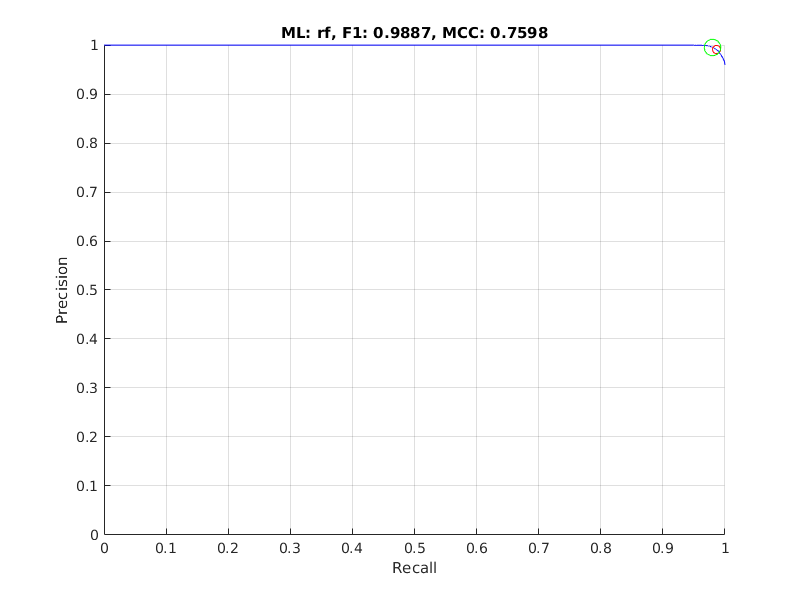
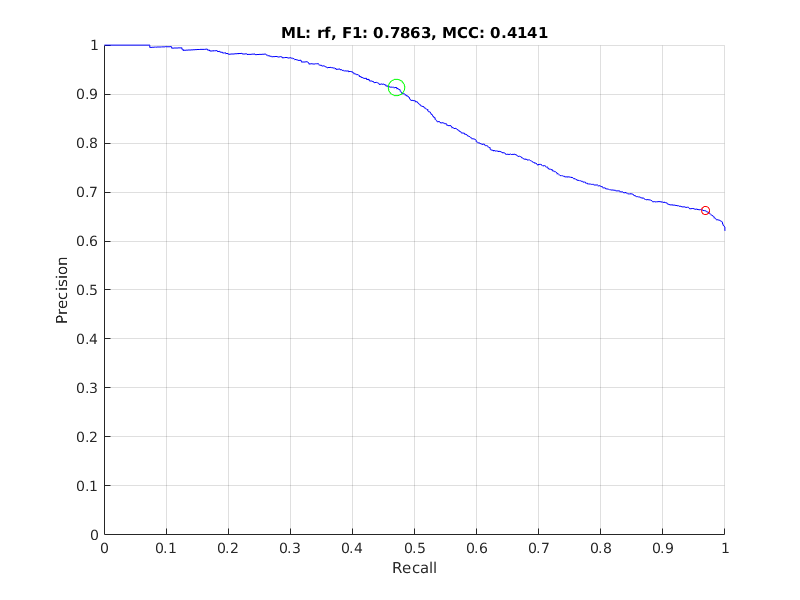
deliverable commit

diff --git a/machine_learning/plot_pr_multi.m b/machine_learning/plot_pr_multi.m
@@ -1,0 +1,58 @@
+% function [max_fscore, max_mcc] = plot_pr_multi(pred_result, gt_label, param)
+%[max_fscore, max_mcc] = plot_pr_multi(pred_result, gt_label, session_id, param)
+
+%%
+addpath(genpath('.'))
+
+param = globalParam;
+temp_load = load('result/different_input.mat');
+pred_result = temp_load.all_pred;
+gt_label = temp_load.all_test;
+
+% % calculate f1 score of pr
+% fscore = 2.*p.*r./(p+r+eps);
+% [max_fscore, max_fscore_idx] = max(fscore);
+% % calculate MCC
+% mcc = calc_mcc_seq(pred_result, gt_label);
+% [max_mcc, max_mcc_idx] = max(mcc);
+% % calculate auc of roc
+% auc = trapz(fpr, r);
+
+input_dir = dir('data/data_different_input/*.csv');
+label_name = cell(1,length(input_dir));
+all_pred = cell(length(input_dir));
+all_test = cell(length(input_dir));
+for i = 1:length(input_dir)
+    fprintf('Processing file# %d \n', i)
+    [~, fname, ~] = fileparts(input_dir(i).name);
+    C = strsplit(fname, '_');
+    label_name{i} = C{4};
+end
+% draw figure
+h1 = figure;
+hold on, grid on
+title(sprintf('ML: %s, different Input',...
+    param.regressor))
+if param.train_test_type == 1 || param.train_test_type == 2 || param.train_test_type == 3
+    axis([0 1 0 1])
+    xlabel('Recall')
+    ylabel('Precision')
+    for i = 1:length(temp_load.all_pred)
+        [p, r, fpr] = calc_pr_seq_old(pred_result{i}, gt_label{i});
+        if i==1
+            plot(r, p, '--', 'LineWidth', 3)
+        else
+            plot(r, p, 'LineWidth', 3)
+        end
+    end
+    %     plot(r(max_fscore_idx), p(max_fscore_idx), 'ro')
+    %     plot(r(max_mcc_idx), p(max_mcc_idx), 'go', 'MarkerSize', 12)
+else
+    error('Train test type error.')
+end
+legend(label_name, 'Location', 'Best')
+
+print(h1, '-dpng', '-r100',...
+    sprintf('figures/%s_feat_comp', param.regressor))
+
+

diff --git a/machine_learning/multi_input.m b/machine_learning/multi_input.m
@@ -1,0 +1,47 @@
+close all
+% clear
+clc
+
+addpath(genpath('.'))
+
+param = globalParam;
+param.regressor = 'rf';
+param.ml_type = 0;
+param.train_test_split = 0.6;
+
+%% reading data
+
+input_dir = dir('data/data_different_input/*.csv');
+label_name = cell(1,length(input_dir));
+all_pred = cell(length(input_dir));
+all_test = cell(length(input_dir));
+for i = 1:length(input_dir)
+    fprintf('Processing file# %d \n', i)
+    [~, fname, ~] = fileparts(input_dir(i).name);
+    C = strsplit(fname, '_');
+    label_name{i} = C{4};
+    tic
+    data = dlmread(['data/data_different_input/' input_dir(i).name]);
+    
+%     if param.ml_type == 0
+%         data = [data(:, 1:end-2) data(:, end)]; % binary
+%     else
+%         data = data(:, 1:end-1); % multi-class
+%     end
+
+    [pred_label, test_label] = train_test_single(data, param);
+    [max_fscore, max_mcc] = plot_result(pred_label, test_label, param);
+
+    all_pred{i} = pred_label;
+    all_test{i} = test_label;
+end
+
+save('result/different_input.mat', 'all_pred', 'all_test')
+
+% if param.ml_type == 0
+%     [max_fscore, max_mcc] = plot_result(pred_label, test_label, param);
+% else
+%     [~, order] = confusionmat(test_label, pred_label);
+%     C = confusionMatrix2(pred_label+1, test_label+1, ...
+%         {'Correct','GeneralFetchInjected','LoadStoreInjected','ExecutionInjected','OpCodeInjected'});
+% end

diff --git a/machine_learning/main.m b/machine_learning/main.m
@@ -7,40 +7,20 @@ addpath(genpath('.'))
 param = globalParam;
 param.regressor = 'rf';
 param.ml_type = 0;
-train_test_split = 0.6;
+param.train_test_split = 0.6;
 %% reading data
 tic
-data = dlmread('data/data_feat_all.csv');
-if param.ml_type == 0
-    data = [data(:, 1:end-2) data(:, end)]; % binary
-else
-    data = data(:, 1:end-1); % multi-class
-end
+data = dlmread('data/data_same_input/data_same_input_all.csv');
+% if param.ml_type == 0
+%     data = [data(:, 1:end-2) data(:, end)]; % binary
+% else
+%     data = data(:, 1:end-1); % multi-class
+% end
 % data(:,end) = randi(5, [size(data,1),1])-1;
 % data(:,335) = [];
 
-train_idx = randperm(size(data,1), round(train_test_split*size(data,1)) );
-test_idx = 1:size(data,1);
-test_idx(train_idx) = [];
-
-train_data = data(train_idx, :);
-train_feat = train_data(:, 1:end-1);
-train_label = train_data(:, end);
-
-test_data = data(test_idx, :);
-test_feat = test_data(:, 1:end-1);
-test_label = test_data(:, end);
-fprintf('Reading data: %.3f sec\n', toc)
-
-
-%% training and testing
-
-regressor = ml_train(train_feat, train_label, param);
-
-pred_label = ml_test(test_feat, regressor, param);
-
-importance = regressor.importance;
-bar(importance)
+[pred_label, test_label, importance] = train_test_single(data, param);
+figure, bar(importance)
 [~, max_feat_idx] = max(importance);
 
 if param.ml_type == 0

diff --git a/machine_learning/train_test_single.m b/machine_learning/train_test_single.m
@@ -1,0 +1,24 @@
+function [pred_label, test_label, importance] = train_test_single(data, param)
+
+tic
+train_idx = randperm(size(data,1), round(param.train_test_split*size(data,1)) );
+test_idx = 1:size(data,1);
+test_idx(train_idx) = [];
+
+train_data = data(train_idx, :);
+train_feat = train_data(:, 1:end-1);
+train_label = train_data(:, end);
+
+test_data = data(test_idx, :);
+test_feat = test_data(:, 1:end-1);
+test_label = test_data(:, end);
+fprintf('Reading data: %.3f sec\n', toc)
+
+
+%% training and testing
+
+regressor = ml_train(train_feat, train_label, param);
+
+pred_label = ml_test(test_feat, regressor, param);
+
+importance = regressor.importance;

diff --git a/machine_learning/globalParam.m b/machine_learning/globalParam.m
@@ -13,7 +13,7 @@ param.k_ctrs = 3; %!!!!!!!!!!!!!!!!!!!!!!!!!!!!!!!!!!!!!!!!!!!!!!!!!!!!!!!!
 param.display_session_result = 0;
 param.display_cluster_result = 0;
 param.is_save_figure = 0;
-param.color = 'rgbmkcy';
+param.color = 'rgbymck';
 % number of test samples
 param.num_test = 10;
 % debug: -1 0 1
@@ -24,7 +24,7 @@ param.test_mode = 1;
 param.head_pose = 0;
 
 %% Regressor
-param.regressor = 'svm'; %!!!!!!!!!!!!!!!!!!!!!!!!!!!!!!!!!!!!!!!!!!!!!!!!!
+param.regressor = 'rf'; %!!!!!!!!!!!!!!!!!!!!!!!!!!!!!!!!!!!!!!!!!!!!!!!!!
 % Post Processing
 param.use_hmm = 0;
 %% PCA

diff --git a/machine_learning/README.md b/machine_learning/README.md
@@ -1,0 +1,18 @@
+# Machine Learning Module
+
+## Train and test our machine learning 
+First create data/ and result/ folders, place data files in data/ folder, open MATLAB, and run
+```
+main.m
+```
+
+## Change training and testing settings
+Change the parameter settings in globalParam.m file.
+
+## Output
+The results will be saved in result/ folder.
+
+## Data
+Data files can be downloaded from
+https://drive.google.com/a/umich.edu/file/d/0Bw85EvPGLSJeZnpsTzFwM2ExcGc/view?usp=sharing
+

diff --git a/README.md b/README.md
@@ -29,3 +29,5 @@ dmtcp_launch build/ALPHA/gem5.opt -re -d ./checkpoints/qsort_small --debug-flags
 ```
 dmtcp_launch build/ALPHA/gem5.opt -re -d ./fi_output/qsort_small_f1 --debug-flags=FaultInjection configs/example/fs.py --cpu-type=detailed --caches --l2cache -b qsort_small1 --checkpoint-restore 1 --checkpoint-dir ./checkpoints/qsort_small 
 ```
+## Run our machine learning analysis module
+See README.md file in machine_learning folder
